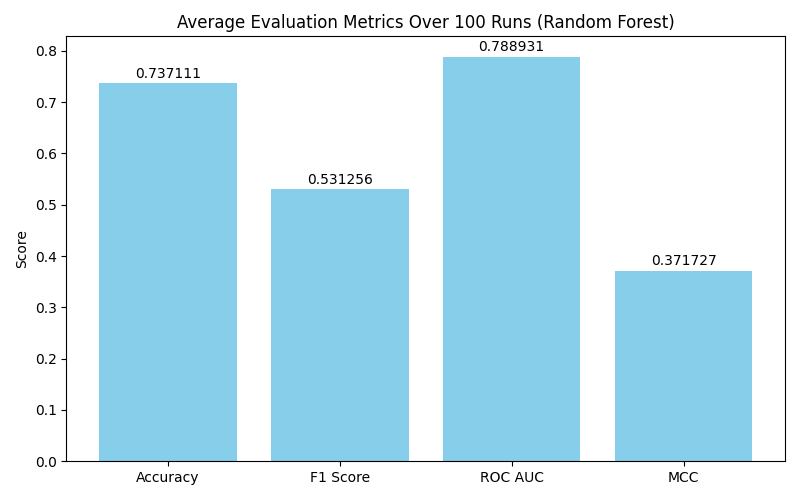
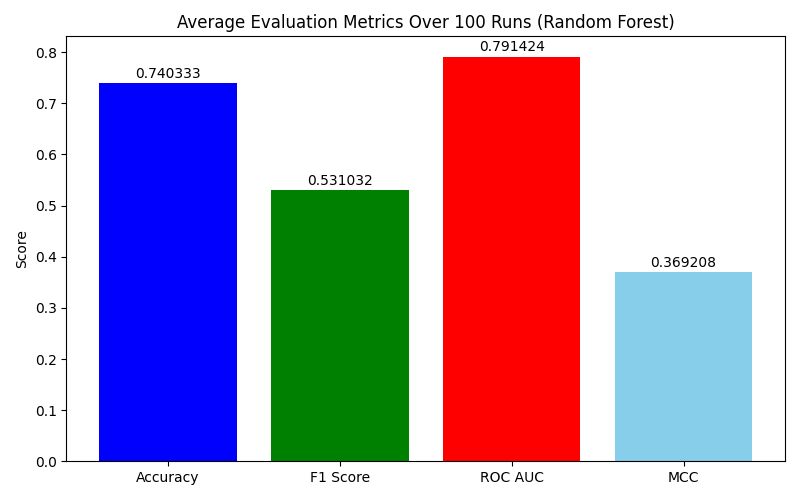
Modify pictures of RF

diff --git a/model/rf/random_forest.py b/model/rf/random_forest.py
@@ -86,7 +86,7 @@ mapped_labels = [feature_label_mapping[feature] for feature in features]
 
 # Save feature ranking chart with mapped labels on y-axis
 plt.figure(figsize=(10, 6))
-plt.barh(mapped_labels, avg_ranks, color='blue', height=0.5)
+plt.barh(mapped_labels, avg_ranks, color='skyblue', height=0.5)
 plt.xlabel('Average Rank')
 plt.title('Average Feature Ranking Over 100 Runs (Random Forest)')
 plt.gca().invert_yaxis()
@@ -111,7 +111,7 @@ values = [avg_accuracy, avg_f1, avg_roc_auc, avg_mcc]
 
 # Save evaluation metrics chart with specified format
 plt.figure(figsize=(8, 5))
-plt.bar(metrics, values, color='skyblue')
+plt.bar(metrics, values, color=['blue', 'green', 'red', 'skyblue'])
 plt.ylabel('Score')
 plt.title('Average Evaluation Metrics Over 100 Runs (Random Forest)')
 
